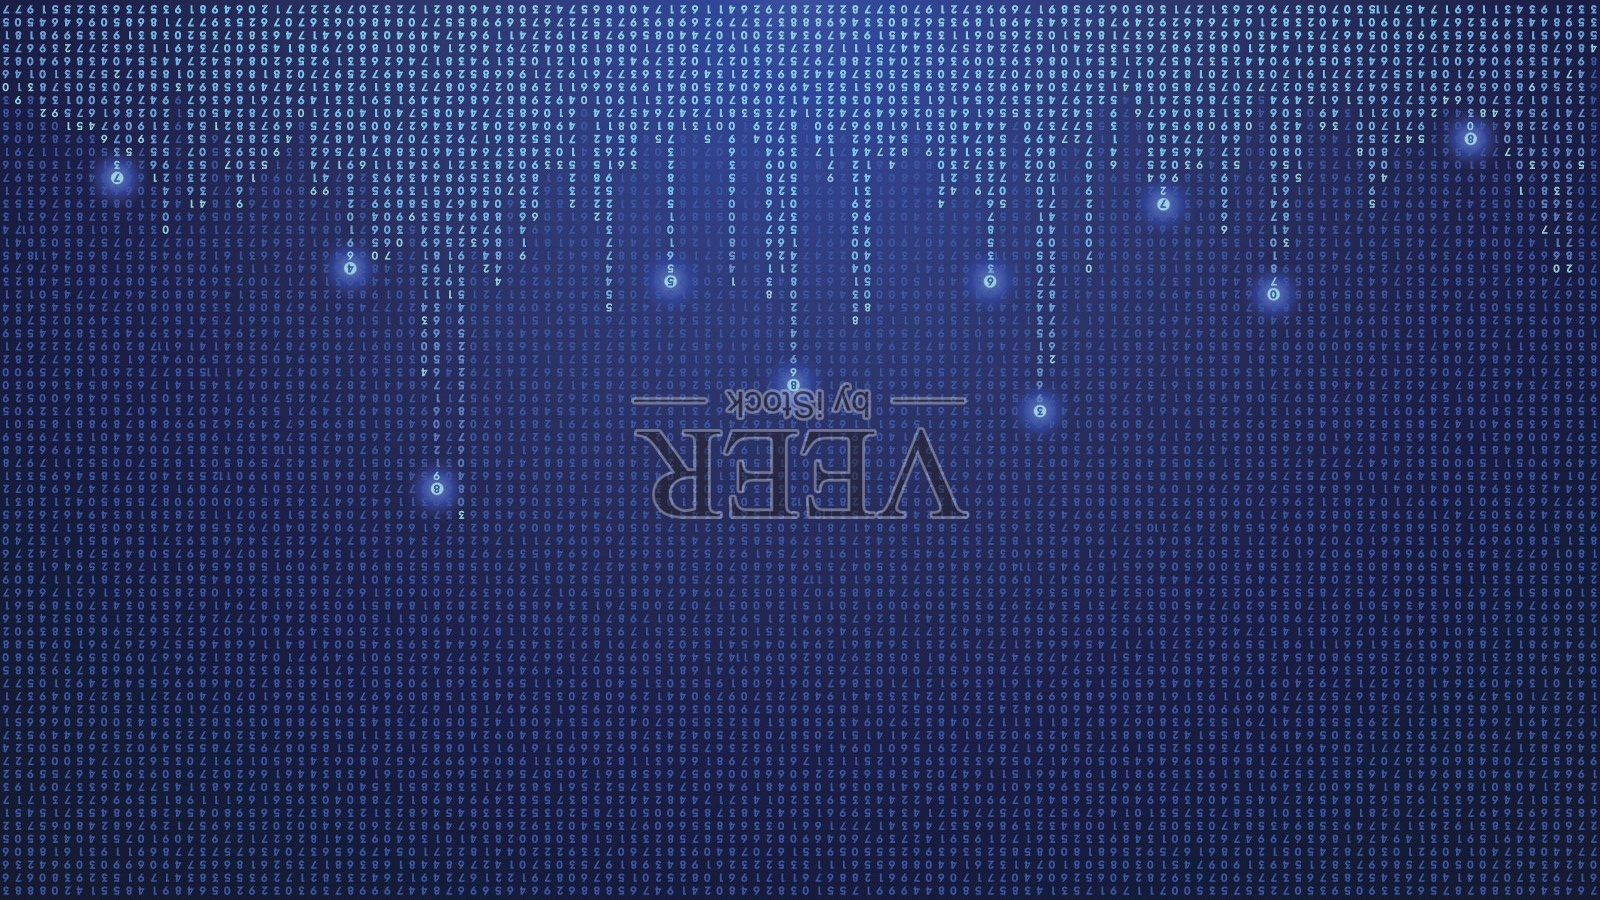
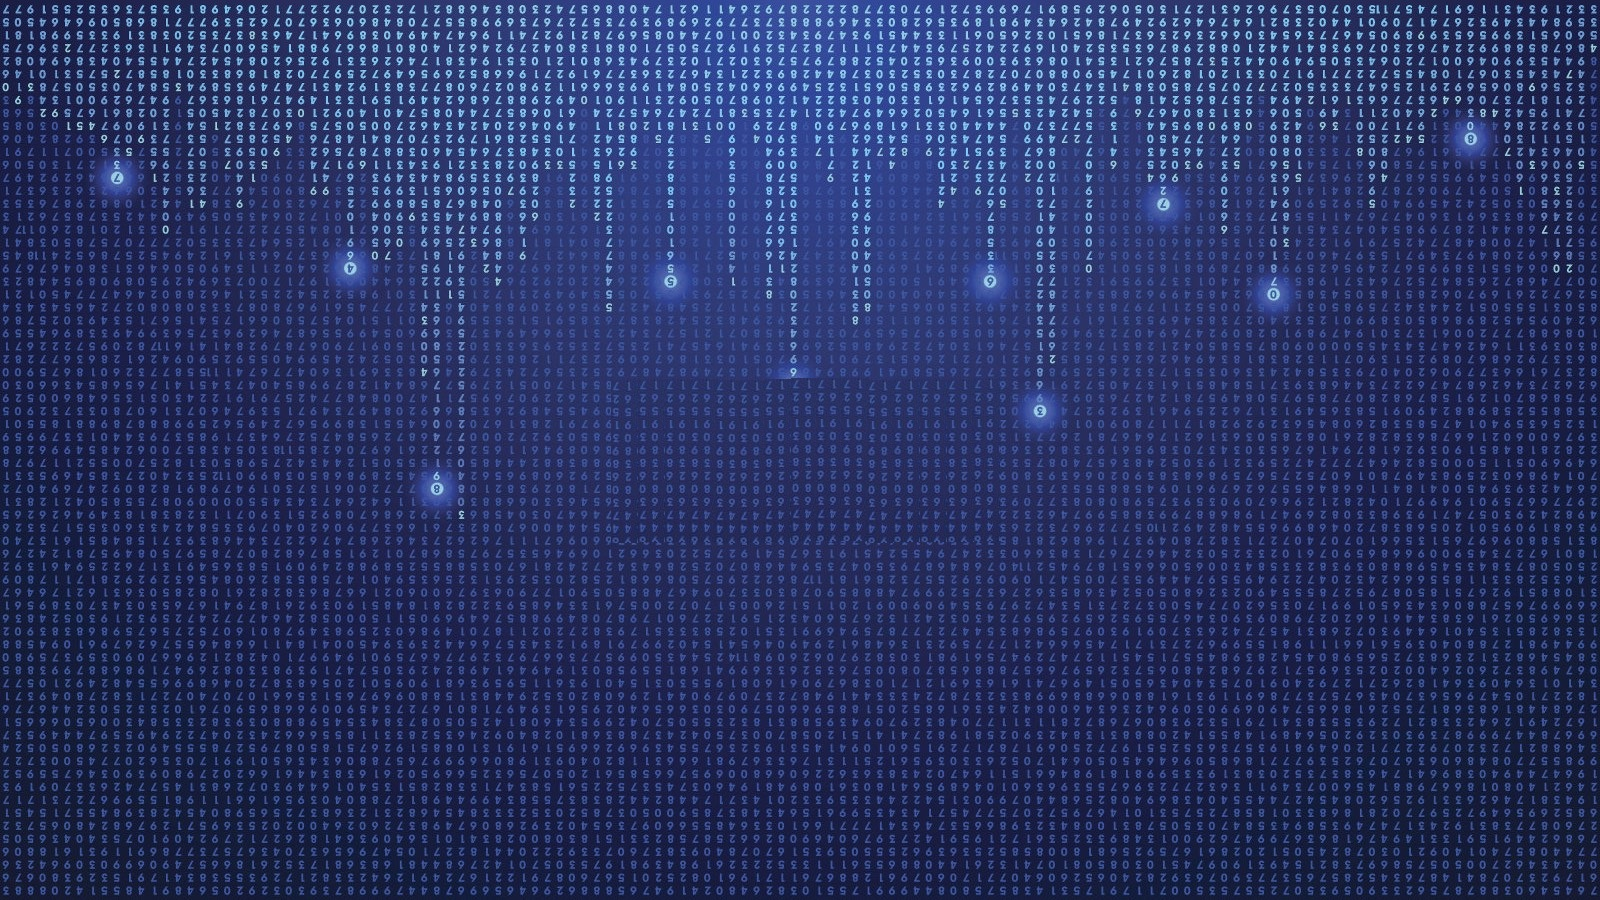
add splash screen

Changed region(s): [[0.375, 0.4044, 0.625, 0.6222]]

diff --git a/BitcoinTerminal/Bitcoiner/CSConinerMainUI.xaml b/BitcoinTerminal/Bitcoiner/CSConinerMainUI.xaml
@@ -7,6 +7,7 @@
         WindowStyle="None"
         AllowsTransparency="True"
         Loaded="Window_Loaded"
+        WindowStartupLocation="CenterScreen"
         mc:Ignorable="d"
         Icon="Resources/CSharpCoin.png"
         FontFamily="Microsoft YaHei"
@@ -484,7 +485,7 @@
     <Border BorderBrush="#fab915" BorderThickness="1">
         <Grid>
             <Grid.Background>
-                <ImageBrush ImageSource="Resources/bgImg2 - Copy.jpg"/>
+                <ImageBrush ImageSource="Resources/bgImg2.jpg"/>
             </Grid.Background>
             <Grid.RowDefinitions>
                 <RowDefinition Height="50"/>

diff --git a/BitcoinTerminal/Bitcoiner/App.xaml.cs b/BitcoinTerminal/Bitcoiner/App.xaml.cs
@@ -13,5 +13,6 @@ namespace Bitcoiner
     /// </summary>
     public partial class App : Application
     {
+  
     }
 }
